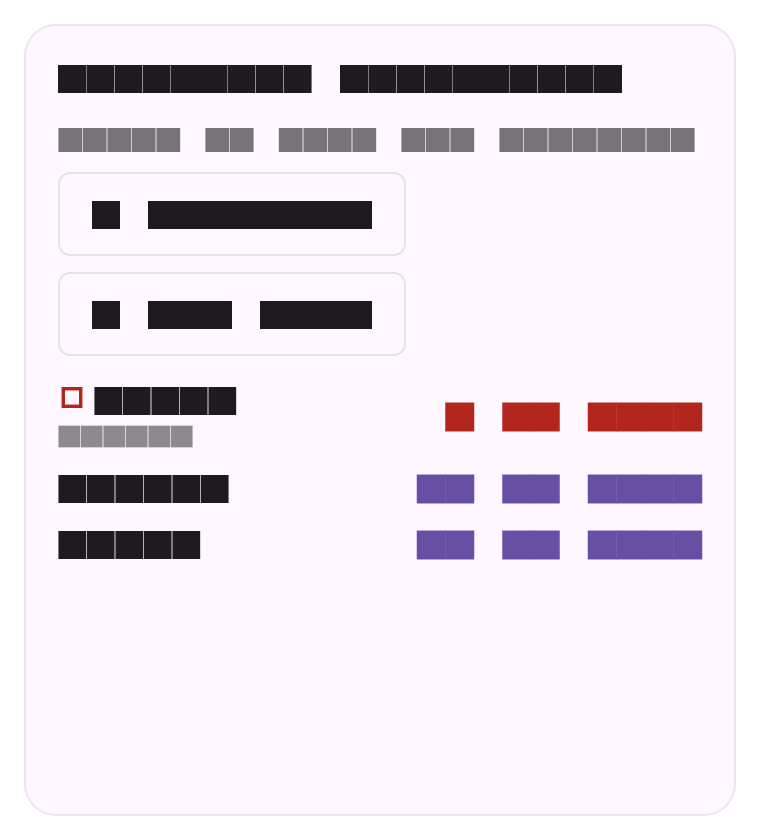
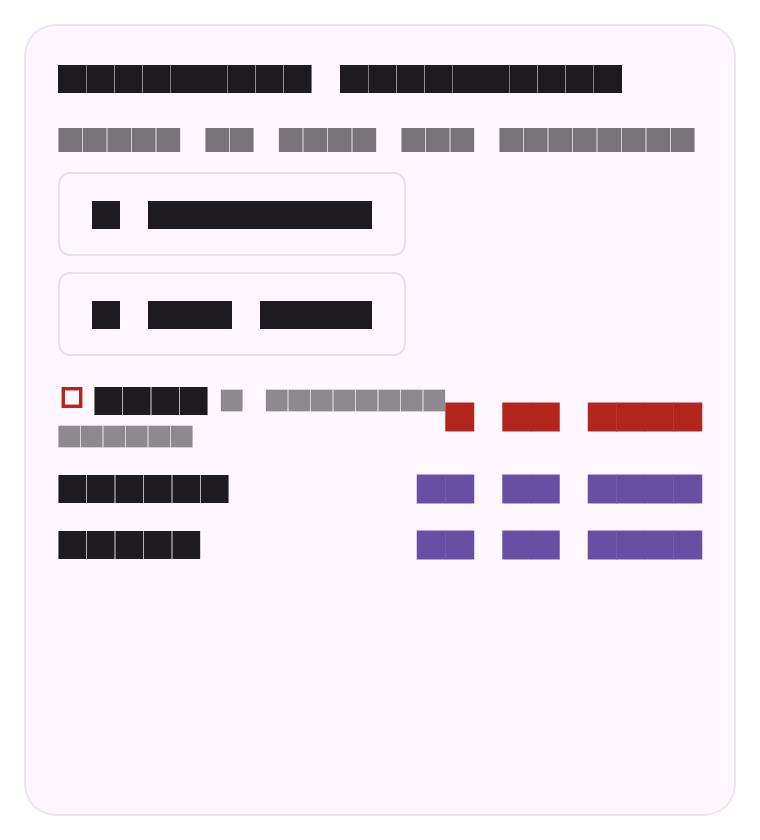
feat(inventory): SKU Generation for Inventory Items (Issue #437)
Adds an optional SKU field to inventory items with a category-prefixed
auto-generator (manual entry also supported) and displays the SKU in the
item row. Camera-based barcode scanning is left for a dedicated follow-up
that needs a new native package and physical-device QA.

Changed region(s): [[0.2724, 0.4333, 0.6053, 0.4952]]

diff --git a/lib/objectbox.g.dart b/lib/objectbox.g.dart
@@ -919,7 +919,7 @@ final _entities = <obx_int.ModelEntity>[
   obx_int.ModelEntity(
       id: const obx_int.IdUid(23, 5280749065071673335),
       name: 'InventoryItemEntity',
-      lastPropertyId: const obx_int.IdUid(6, 7767923796308768028),
+      lastPropertyId: const obx_int.IdUid(7, 5438024201973111405),
       flags: 0,
       properties: <obx_int.ModelProperty>[
         obx_int.ModelProperty(
@@ -953,7 +953,12 @@ final _entities = <obx_int.ModelEntity>[
             type: 11,
             flags: 520,
             indexId: const obx_int.IdUid(26, 2165798326861927465),
-            relationTarget: 'InventoryCategoryEntity')
+            relationTarget: 'InventoryCategoryEntity'),
+        obx_int.ModelProperty(
+            id: const obx_int.IdUid(7, 5438024201973111405),
+            name: 'sku',
+            type: 9,
+            flags: 0)
       ],
       relations: <obx_int.ModelRelation>[],
       backlinks: <obx_int.ModelBacklink>[]),
@@ -2119,13 +2124,15 @@ obx_int.ModelDefinition getObjectBoxModel() {
         },
         objectToFB: (InventoryItemEntity object, fb.Builder fbb) {
           final nameOffset = fbb.writeString(object.name);
-          fbb.startTable(7);
+          final skuOffset = fbb.writeString(object.sku);
+          fbb.startTable(8);
           fbb.addInt64(0, object.id);
           fbb.addOffset(1, nameOffset);
           fbb.addInt64(2, object.quantityOnHand);
           fbb.addInt64(3, object.reorderThreshold);
           fbb.addFloat64(4, object.unitCost);
           fbb.addInt64(5, object.category.targetId);
+          fbb.addOffset(6, skuOffset);
           fbb.finish(fbb.endTable());
           return object.id;
         },
@@ -2142,12 +2149,15 @@ obx_int.ModelDefinition getObjectBoxModel() {
               const fb.Int64Reader().vTableGet(buffer, rootOffset, 10, 0);
           final unitCostParam =
               const fb.Float64Reader().vTableGet(buffer, rootOffset, 12, 0);
+          final skuParam = const fb.StringReader(asciiOptimization: true)
+              .vTableGet(buffer, rootOffset, 16, '');
           final object = InventoryItemEntity(
               id: idParam,
               name: nameParam,
               quantityOnHand: quantityOnHandParam,
               reorderThreshold: reorderThresholdParam,
-              unitCost: unitCostParam);
+              unitCost: unitCostParam,
+              sku: skuParam);
           object.category.targetId =
               const fb.Int64Reader().vTableGet(buffer, rootOffset, 14, 0);
           object.category.attach(store);
@@ -2823,6 +2833,10 @@ class InventoryItemEntity_ {
   static final category =
       obx.QueryRelationToOne<InventoryItemEntity, InventoryCategoryEntity>(
           _entities[21].properties[5]);
+
+  /// see [InventoryItemEntity.sku]
+  static final sku =
+      obx.QueryStringProperty<InventoryItemEntity>(_entities[21].properties[6]);
 }
 
 /// [InventoryCategoryEntity] entity fields to define ObjectBox queries.

diff --git a/lib/features/analytics/widgets/inventory_item_dialog_content.dart b/lib/features/analytics/widgets/inventory_item_dialog_content.dart
@@ -1,16 +1,19 @@
 import 'package:flutter/material.dart';
+import 'package:growth_pilot_ai/business/generate_inventory_item_sku.dart';
 import 'package:growth_pilot_ai/core/data/entities/inventory_category_entity.dart';
 import 'package:growth_pilot_ai/core/data/entities/inventory_item_entity.dart';
 import 'package:growth_pilot_ai/features/analytics/widgets/inventory_item_fields.dart';
 import 'package:shadcn_ui/shadcn_ui.dart';
 
 /// Stateful form body for [showInventoryItemDialog] (Issue #435): owns the
-/// name/quantity/reorder-threshold/unit-cost/category state (category
-/// picker added in #436).
+/// name/quantity/reorder-threshold/unit-cost/category/SKU state (category
+/// picker in #436, SKU field + generator in #437).
 class InventoryItemDialogContent extends StatefulWidget {
   final List<InventoryCategoryEntity> categories;
+  final List<InventoryItemEntity> existingItems;
 
-  const InventoryItemDialogContent({super.key, required this.categories});
+  const InventoryItemDialogContent(
+      {super.key, required this.categories, required this.existingItems});
 
   @override
   State<InventoryItemDialogContent> createState() => _InventoryItemDialogContentState();
@@ -21,7 +24,13 @@ class _InventoryItemDialogContentState extends State<InventoryItemDialogContent>
   final _quantityController = TextEditingController();
   final _reorderThresholdController = TextEditingController();
   final _unitCostController = TextEditingController();
+  final _skuController = TextEditingController();
   InventoryCategoryEntity? _category;
+
+  void _generateSku() {
+    final existingSkus = widget.existingItems.map((i) => i.sku).toList();
+    _skuController.text = GenerateInventoryItemSku.call(_category?.name, existingSkus);
+  }
 
   void _submit() {
     final name = _nameController.text.trim();
@@ -36,6 +45,7 @@ class _InventoryItemDialogContentState extends State<InventoryItemDialogContent>
       quantityOnHand: quantity,
       reorderThreshold: reorderThreshold,
       unitCost: unitCost,
+      sku: _skuController.text.trim(),
     );
     if (_category != null) item.category.target = _category;
     Navigator.of(context).pop(item);
@@ -50,9 +60,11 @@ class _InventoryItemDialogContentState extends State<InventoryItemDialogContent>
         quantityController: _quantityController,
         reorderThresholdController: _reorderThresholdController,
         unitCostController: _unitCostController,
+        skuController: _skuController,
         categories: widget.categories,
         selectedCategory: _category,
         onCategoryChanged: (value) => setState(() => _category = value),
+        onGenerateSku: _generateSku,
       ),
       actions: [
         ShadButton.outline(

diff --git a/lib/features/analytics/widgets/inventory_item_fields.dart b/lib/features/analytics/widgets/inventory_item_fields.dart
@@ -4,16 +4,19 @@ import 'package:growth_pilot_ai/business/build_inventory_category_path.dart';
 import 'package:growth_pilot_ai/core/data/entities/inventory_category_entity.dart';
 import 'package:shadcn_ui/shadcn_ui.dart';
 
-/// The name/quantity/reorder-threshold/unit-cost/category inputs for a new
-/// inventory item (Issue #435, category picker added in #436).
+/// The name/quantity/reorder-threshold/unit-cost/category/SKU inputs for a
+/// new inventory item (Issue #435, category picker in #436, SKU field +
+/// generator in #437).
 class InventoryItemFields extends StatelessWidget {
   final TextEditingController nameController;
   final TextEditingController quantityController;
   final TextEditingController reorderThresholdController;
   final TextEditingController unitCostController;
+  final TextEditingController skuController;
   final List<InventoryCategoryEntity> categories;
   final InventoryCategoryEntity? selectedCategory;
   final ValueChanged<InventoryCategoryEntity?> onCategoryChanged;
+  final VoidCallback onGenerateSku;
 
   const InventoryItemFields({
     super.key,
@@ -21,9 +24,11 @@ class InventoryItemFields extends StatelessWidget {
     required this.quantityController,
     required this.reorderThresholdController,
     required this.unitCostController,
+    required this.skuController,
     required this.categories,
     required this.selectedCategory,
     required this.onCategoryChanged,
+    required this.onGenerateSku,
   });
 
   @override
@@ -66,6 +71,16 @@ class InventoryItemFields extends StatelessWidget {
           selectedOptionBuilder: (context, value) =>
               Text(value == null ? 'None' : BuildInventoryCategoryPath.call(value)),
           onChanged: onCategoryChanged,
+        ),
+        const SizedBox(height: 8),
+        Row(
+          children: [
+            Expanded(
+              child: ShadInput(placeholder: const Text('SKU (optional)'), controller: skuController),
+            ),
+            const SizedBox(width: 8),
+            ShadButton.outline(onPressed: onGenerateSku, child: const Text('Generate')),
+          ],
         ),
       ],
     );

diff --git a/test/business/generate_inventory_item_sku_test.dart b/test/business/generate_inventory_item_sku_test.dart
@@ -1,0 +1,33 @@
+import 'package:flutter_test/flutter_test.dart';
+import 'package:growth_pilot_ai/business/generate_inventory_item_sku.dart';
+
+void main() {
+  test('uses the first 3 letters of the category name as the prefix', () {
+    expect(GenerateInventoryItemSku.call('Bakery', []), 'BAK-0001');
+  });
+
+  test('falls back to GEN when there is no category', () {
+    expect(GenerateInventoryItemSku.call(null, []), 'GEN-0001');
+  });
+
+  test('pads a short category name with X to reach 3 letters', () {
+    expect(GenerateInventoryItemSku.call('Ox', []), 'OXX-0001');
+  });
+
+  test('increments past existing SKUs with the same prefix', () {
+    final result = GenerateInventoryItemSku.call('Bakery', ['BAK-0001', 'BAK-0002']);
+    expect(result, 'BAK-0003');
+  });
+
+  test('skips a collision even if the count-based guess is already taken', () {
+    final result =
+        GenerateInventoryItemSku.call('Bakery', ['BAK-0001', 'BAK-0002', 'BAK-0002']);
+    expect(result, isNot('BAK-0002'));
+    expect(['BAK-0001', 'BAK-0002', 'BAK-0002'].contains(result), isFalse);
+  });
+
+  test('ignores SKUs from a different prefix when counting', () {
+    final result = GenerateInventoryItemSku.call('Bakery', ['DAI-0001', 'DAI-0002']);
+    expect(result, 'BAK-0001');
+  });
+}

diff --git a/lib/core/data/entities/inventory_item_entity.dart b/lib/core/data/entities/inventory_item_entity.dart
@@ -2,8 +2,10 @@ import 'package:objectbox/objectbox.dart';
 import 'inventory_category_entity.dart';
 
 /// A tracked stock item (Issue #435) — the foundational SKU/inventory data
-/// model this app previously lacked. Barcode/SKU generation (#437),
-/// POS-triggered real-time deduction (#439), and low-stock notifications
+/// model this app previously lacked. SKU generation is #437; camera-based
+/// barcode scanning needs a new native package and physical-device QA this
+/// environment can't verify, so it's left for a dedicated follow-up.
+/// POS-triggered real-time deduction (#439) and low-stock notifications
 /// (#440) are separate follow-up issues; this is manual quantity tracking.
 @Entity()
 class InventoryItemEntity {
@@ -18,6 +20,10 @@ class InventoryItemEntity {
 
   double unitCost;
 
+  /// Optional unique item identifier (Issue #437) — user-entered or
+  /// auto-generated, empty if unset.
+  String sku;
+
   /// Optional hierarchical category (Issue #436).
   final category = ToOne<InventoryCategoryEntity>();
 
@@ -27,5 +33,6 @@ class InventoryItemEntity {
     required this.quantityOnHand,
     required this.reorderThreshold,
     required this.unitCost,
+    this.sku = '',
   });
 }

diff --git a/lib/features/analytics/widgets/inventory_item_row.dart b/lib/features/analytics/widgets/inventory_item_row.dart
@@ -2,7 +2,8 @@ import 'package:flutter/material.dart';
 import 'package:growth_pilot_ai/core/models/inventory_stock_item.dart';
 
 /// One inventory item's stock row (Issue #435): a low-stock warning icon
-/// and a quantity readout, colored by stock status.
+/// and a quantity readout, colored by stock status. Shows the SKU next to
+/// the name when set (Issue #437).
 class InventoryItemRow extends StatelessWidget {
   final InventoryStockItem item;
 
@@ -30,6 +31,13 @@ class InventoryItemRow extends StatelessWidget {
                       const SizedBox(width: 4),
                     ],
                     Flexible(child: Text(item.name, overflow: TextOverflow.ellipsis)),
+                    if (item.sku.isNotEmpty) ...[
+                      const SizedBox(width: 6),
+                      Text('· ${item.sku}',
+                          overflow: TextOverflow.ellipsis,
+                          style: TextStyle(
+                              fontSize: 11, color: scheme.onSurface.withValues(alpha: 0.5))),
+                    ],
                   ],
                 ),
                 if (item.categoryPath != null)

diff --git a/lib/business/generate_inventory_item_sku.dart b/lib/business/generate_inventory_item_sku.dart
@@ -1,0 +1,23 @@
+/// Suggests a unique SKU from a category name + a running count of items
+/// already using that prefix (Issue #437). Purely a local naming
+/// convention — no barcode-standard (UPC/EAN) registry involved, since
+/// this app assigns its own internal identifiers.
+class GenerateInventoryItemSku {
+  static String call(String? categoryName, List<String> existingSkus) {
+    final prefix = _prefixFor(categoryName);
+    var sequence = existingSkus.where((sku) => sku.startsWith('$prefix-')).length + 1;
+    var candidate = '$prefix-${sequence.toString().padLeft(4, '0')}';
+    while (existingSkus.contains(candidate)) {
+      sequence++;
+      candidate = '$prefix-${sequence.toString().padLeft(4, '0')}';
+    }
+    return candidate;
+  }
+
+  static String _prefixFor(String? categoryName) {
+    final letters =
+        (categoryName ?? '').toUpperCase().replaceAll(RegExp(r'[^A-Z]'), '');
+    if (letters.isEmpty) return 'GEN';
+    return letters.length >= 3 ? letters.substring(0, 3) : letters.padRight(3, 'X');
+  }
+}

diff --git a/test/features/analytics/inventory_report_widget_screenshot_test.dart b/test/features/analytics/inventory_report_widget_screenshot_test.dart
@@ -11,12 +11,12 @@ import 'package:growth_pilot_ai/features/analytics/widgets/inventory_report_widg
 import 'package:shadcn_ui/shadcn_ui.dart';
 
 /// Captures light/dark PNGs of the Inventory Management widget (Issue
-/// #435, hierarchical categories added in #436) for QA. Not a golden
-/// comparison — it only records the look.
+/// #435, hierarchical categories in #436, SKU field in #437) for QA. Not a
+/// golden comparison — it only records the look.
 void main() {
   final bakery = InventoryCategoryEntity(name: 'Bakery');
   final flour = InventoryItemEntity(
-      name: 'Flour', quantityOnHand: 2, reorderThreshold: 10, unitCost: 3.5)
+      name: 'Flour', quantityOnHand: 2, reorderThreshold: 10, unitCost: 3.5, sku: 'BAK-0001')
     ..category.target = bakery;
   final items = [
     flour,

diff --git a/lib/features/analytics/widgets/inventory_item_dialog.dart b/lib/features/analytics/widgets/inventory_item_dialog.dart
@@ -6,10 +6,11 @@ import 'package:shadcn_ui/shadcn_ui.dart';
 
 /// Quick-add form for an inventory item (Issue #435). Returns the new item
 /// (not yet persisted) or null if cancelled/invalid.
-Future<InventoryItemEntity?> showInventoryItemDialog(
-    BuildContext context, List<InventoryCategoryEntity> categories) {
+Future<InventoryItemEntity?> showInventoryItemDialog(BuildContext context,
+    List<InventoryCategoryEntity> categories, List<InventoryItemEntity> existingItems) {
   return showShadDialog<InventoryItemEntity>(
     context: context,
-    builder: (context) => InventoryItemDialogContent(categories: categories),
+    builder: (context) =>
+        InventoryItemDialogContent(categories: categories, existingItems: existingItems),
   );
 }

diff --git a/test/features/analytics/inventory_report_widget_test.dart b/test/features/analytics/inventory_report_widget_test.dart
@@ -51,6 +51,16 @@ void main() {
     expect(find.text('Bakery'), findsOneWidget);
   });
 
+  testWidgets('shows the SKU next to the item name when set', (tester) async {
+    final item = InventoryItemEntity(
+        name: 'Flour', quantityOnHand: 40, reorderThreshold: 10, unitCost: 3.5, sku: 'BAK-0001');
+
+    await tester.pumpWidget(_wrap(InventoryReportWidget(
+        data: {'items': [item], 'categories': const <InventoryCategoryEntity>[]}, title: 'x')));
+
+    expect(find.text('· BAK-0001'), findsOneWidget);
+  });
+
   testWidgets('shows the "+ Add Item" and "+ Category" quick-add buttons', (tester) async {
     await tester.pumpWidget(_wrap(const InventoryReportWidget(
         data: {

diff --git a/lib/features/analytics/widgets/inventory_report_body.dart b/lib/features/analytics/widgets/inventory_report_body.dart
@@ -28,7 +28,7 @@ class _InventoryReportBodyState extends State<InventoryReportBody> {
   late List<InventoryCategoryEntity> _categories = widget.initialCategories;
 
   Future<void> _addItem() async {
-    final item = await showInventoryItemDialog(context, _categories);
+    final item = await showInventoryItemDialog(context, _categories, _items);
     if (item == null) return;
     InventoryItemRepository(Get.find<ObjectBox>().store.box<InventoryItemEntity>())
         .insert(item);

diff --git a/lib/core/models/inventory_stock_item.dart b/lib/core/models/inventory_stock_item.dart
@@ -13,6 +13,7 @@ class InventoryStockItem {
   final double unitCost;
   final InventoryStockStatus status;
   final String? categoryPath;
+  final String sku;
 
   const InventoryStockItem({
     required this.name,
@@ -21,5 +22,6 @@ class InventoryStockItem {
     required this.unitCost,
     required this.status,
     this.categoryPath,
+    this.sku = '',
   });
 }
